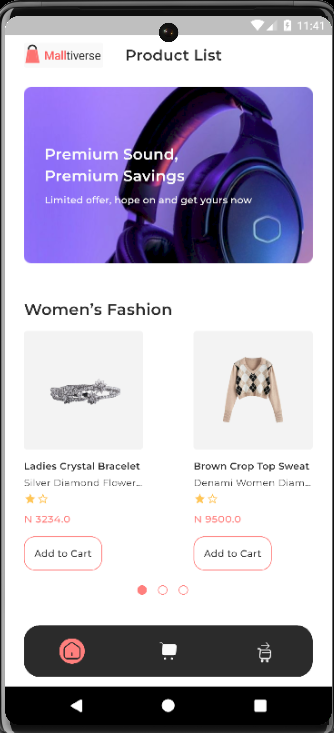
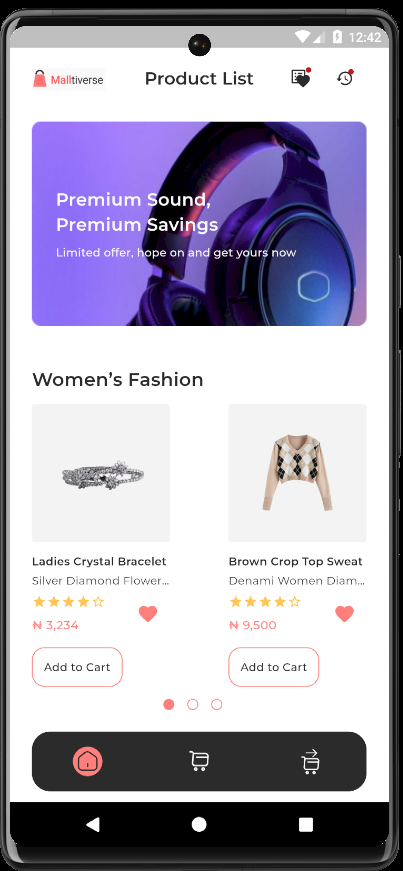
update read me file

diff --git a/README.md b/README.md
@@ -10,13 +10,18 @@ This is a simple shopping app built using Flutter, showcasing a list of products
 - Dynamic list of products/items from timbu business api displayed under the Products tab.
 - Checkout tab displaying the products added for checkout.
 - Functionality to add and remove items from the checkout cart.
-- Button to navigate to an Order Successful screen from the Checkout screen.
+- Persisted cart items list
+- Add to favourites
+- Persisted favourites list
 
 ## Screenshots
 
 ![Products Screen](showcase/products_screen.png)
 ![Checkout Screen](showcase/checkout_screen.png)
 ![Order Successful Screen](showcase/order_successful_screen.png)
+![Favourites](showcase/favourites.png)
+![Order listing](showcase/order_listing.png)
+![Order detail](showcase/order_detail.png)
 
 ## Getting Started
 
@@ -50,8 +55,9 @@ These instructions will get you a copy of the project up and running on your loc
 
 ## Test App
 
-You can try out the app [here](https://appetize.io/app/b_wqm52al643ta75cxe2gtknntbi) on Appetize.io.
+You can try out the app [here](https://appetize.io/app/b_4zcyavvczaomtnwdrmrr2gphyq) on Appetize.io.
 
 To add to cart
 - Click on add to cart on each item.
 - See all cart items by clicking on the cart icon at the second tab.
+- Add favourites by clicking on the heart icon on each item
